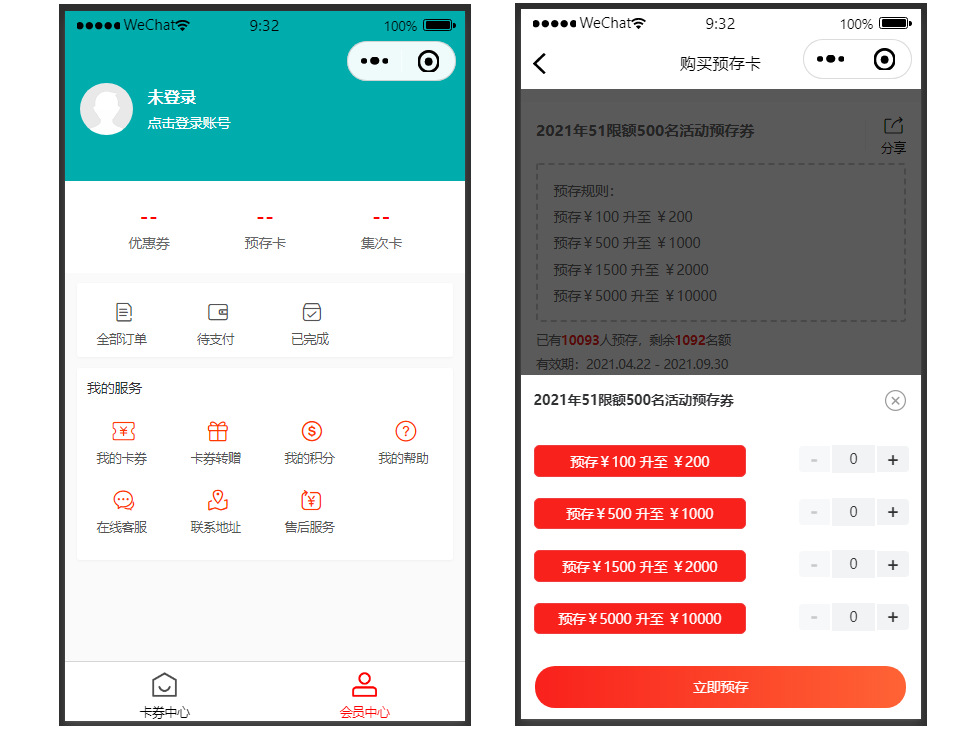
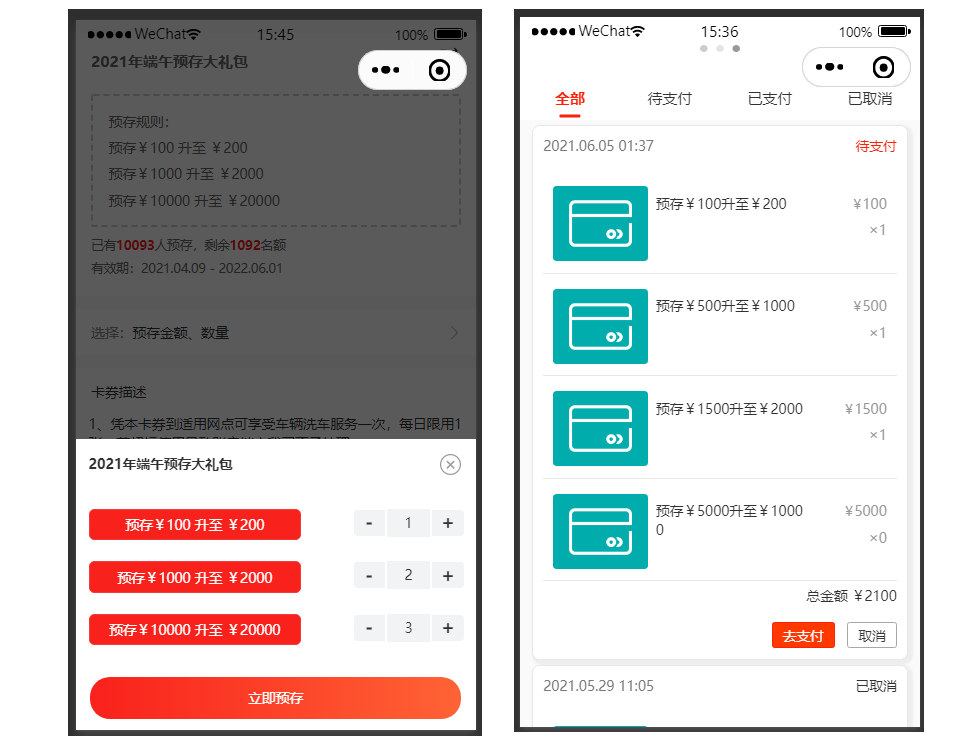
更新截图

diff --git a/README.md b/README.md
@@ -1,12 +1,20 @@
-# FuInt会员卡券系统介绍
+# FuInt会员营销系统介绍
 
 #### 介绍
-欢迎使用FuInt会员卡券系统。本项目包含优惠券、预存卡、集次卡、短信发送、储值卡、消费券等会员营销功能，支持批量操作。源码完整，包含前台微信小程序、h5、后端api、后台管理三部分。本系统适用于各类实体店铺，如酒店、汽车4S店、鲜花店、甜品店、餐饮店等，
+欢迎使用FuInt会员营销系统。本项目包含优惠券、预存卡、集次卡、短信发送、储值卡、电子券，会员积分体系，支付收款等营销功能，支持批量操作。源码完整，包含前台微信小程序、h5、后端api、后台管理三部分。本系统适用于各类实体店铺，如酒店、汽车4S店、鲜花店、甜品店、餐饮店等，
 也适用于线上的电商系统，有独立的接入api，建议咨询下方的微信，以便提供更完善的功能。
+
+Fuint侧重于线下实体店的私域流量的运营，帮助商户降低获客成本。顾客通过扫码支付成为私域流量，支付即可成为会员。积分和卡券功能建立起会员等级体系，通过消息推送和短信营销方便触达用户。
+1、会员运营自动化：商家通过日常活动设置，如开卡礼设置，沉睡唤醒等，成为会员后自动给顾客送优惠券，让顾客更有黏性，提升会员运营效率。
+2、会员体系完整化：积分、会员等级权益、积分加速、买单折扣。
+
+
+
 以下是前台的页面展示：
 <p><img src="screenshots/g1.png" alt="卡券前台页面1"></p>
 <p><img src="screenshots/g2.png" alt="卡券前台页面2"></p>
 <p><img src="screenshots/g3.png" alt="卡券前台页面3"></p>
+<p><img src="screenshots/g4.png" alt="卡券前台页面4"></p>
 
 
 
